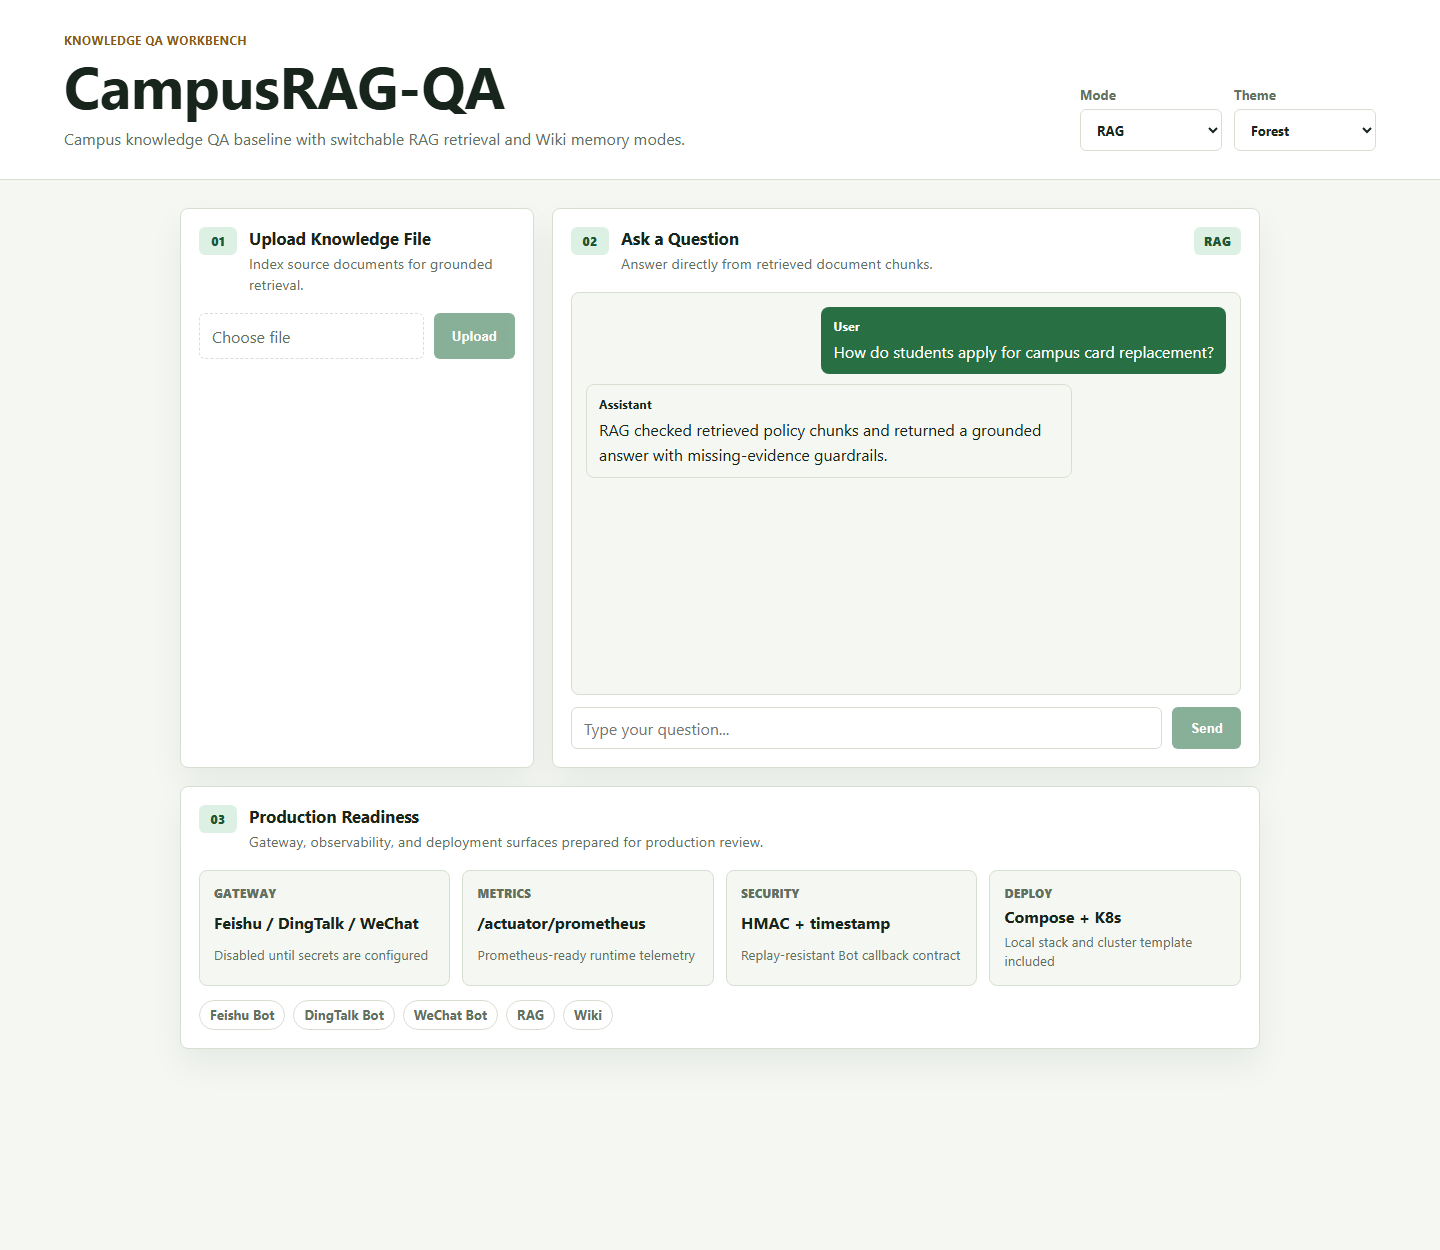
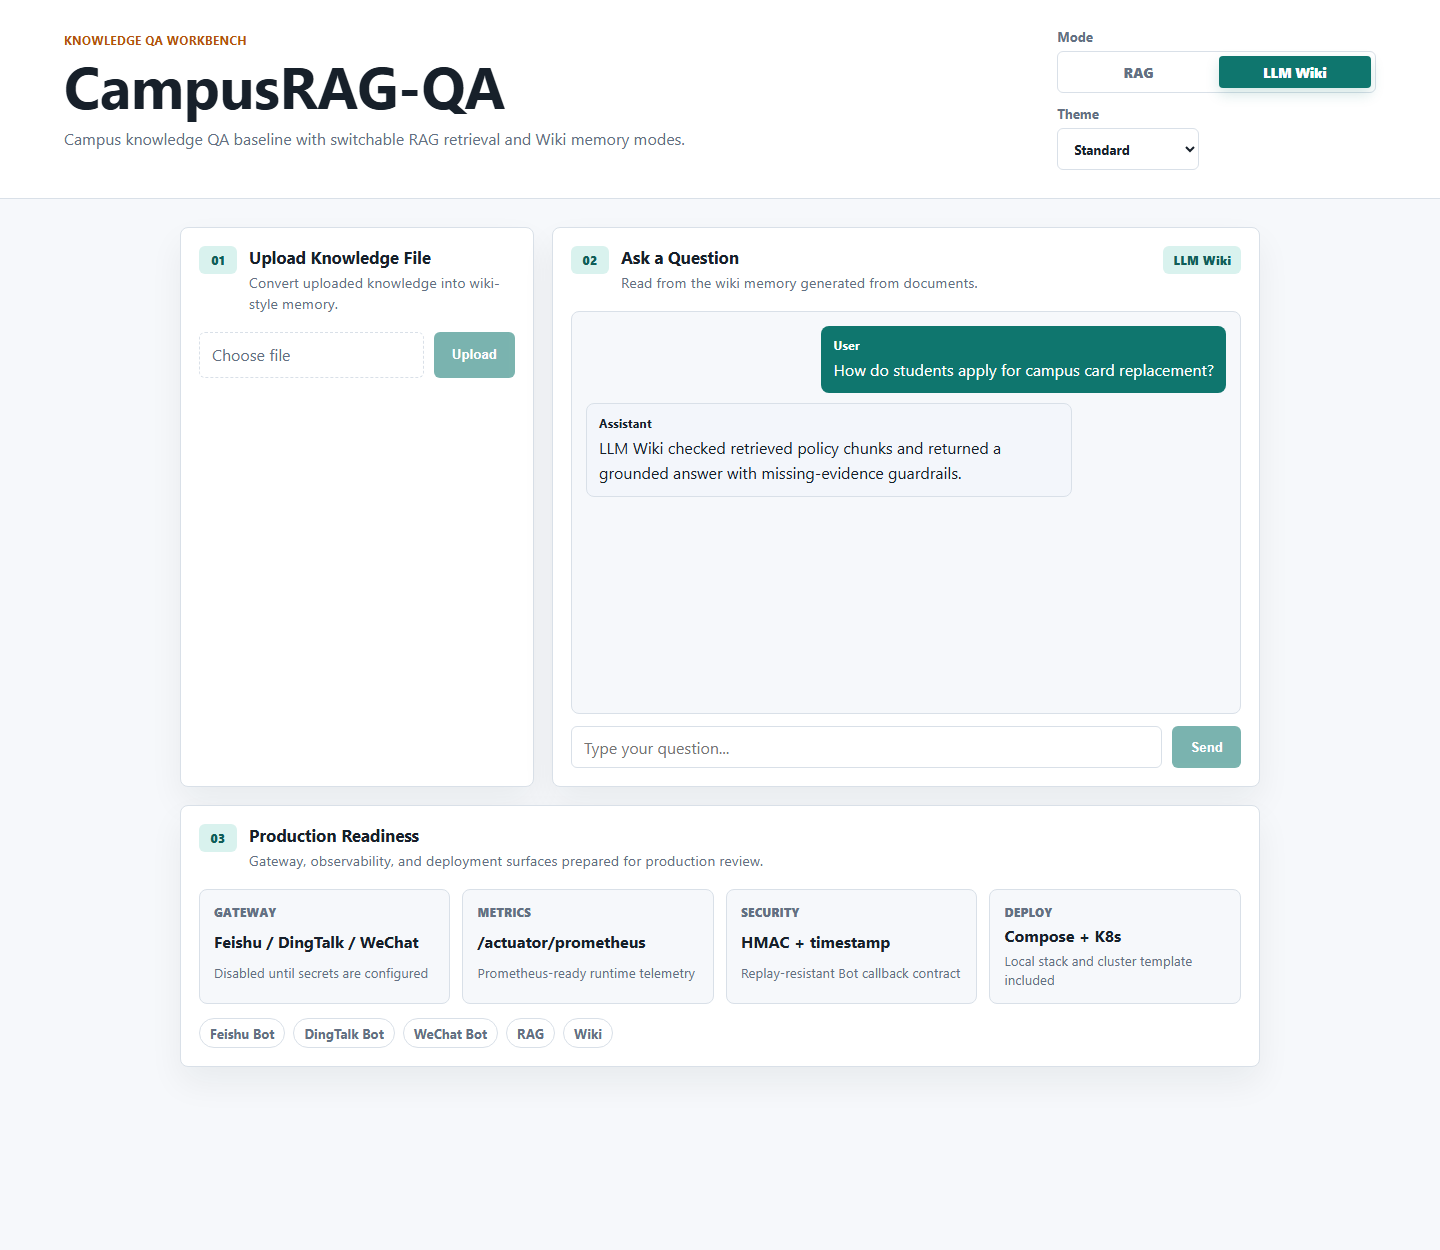
Add explicit RAG and Wiki mode switching

diff --git a/frontend/src/App.vue b/frontend/src/App.vue
@@ -8,14 +8,21 @@
       </div>
 
       <div class="header-controls">
-        <label class="control">
+        <div class="control mode-control" role="group" aria-label="Mode">
           <span>Mode</span>
-          <select v-model="selectedMode">
-            <option v-for="mode in modes" :key="mode.value" :value="mode.value">
+          <div class="mode-toggle">
+            <button
+              v-for="mode in modes"
+              :key="mode.value"
+              type="button"
+              :class="['mode-button', { active: selectedMode === mode.value }]"
+              :aria-pressed="selectedMode === mode.value"
+              @click="selectMode(mode.value)"
+            >
               {{ mode.label }}
-            </option>
-          </select>
-        </label>
+            </button>
+          </div>
+        </div>
 
         <label class="control">
           <span>Theme</span>
@@ -136,7 +143,7 @@ const modes = [
     chatHint: 'Answer directly from retrieved document chunks.',
   },
   {
-    value: 'llmwiki',
+    value: 'wiki',
     label: 'LLM Wiki',
     uploadEndpoint: '/api/wiki/upload',
     chatEndpoint: '/api/wiki/chat',
@@ -207,6 +214,10 @@ const messageContainer = ref(null);
 let messageCounter = 0;
 
 const currentMode = computed(() => modes.find((mode) => mode.value === selectedMode.value) ?? modes[0]);
+
+function selectMode(mode) {
+  selectedMode.value = mode;
+}
 
 function applyTheme() {
   const theme = themes[selectedTheme.value] ?? themes.standard;
@@ -413,6 +424,46 @@ p {
   color: var(--muted);
   font-size: 0.82rem;
   font-weight: 700;
+}
+
+.mode-control {
+  width: min(340px, 100%);
+}
+
+.mode-toggle {
+  width: 100%;
+  min-height: 42px;
+  display: grid;
+  grid-template-columns: repeat(2, minmax(0, 1fr));
+  gap: 4px;
+  padding: 4px;
+  border: 1px solid var(--line);
+  border-radius: 6px;
+  background: var(--surface);
+}
+
+.mode-button {
+  min-height: 32px;
+  border: 0;
+  border-radius: 4px;
+  background: transparent;
+  color: var(--muted);
+  font: inherit;
+  font-size: 0.86rem;
+  font-weight: 800;
+  cursor: pointer;
+  transition: background 0.16s ease, color 0.16s ease, box-shadow 0.16s ease;
+}
+
+.mode-button:hover {
+  color: var(--text);
+  background: var(--surface-muted);
+}
+
+.mode-button.active {
+  background: var(--primary);
+  color: #fff;
+  box-shadow: 0 6px 14px rgba(15, 118, 110, 0.18);
 }
 
 select,
@@ -718,6 +769,16 @@ select {
     width: 100%;
   }
 
+  .mode-control {
+    width: calc(100vw - 48px);
+    max-width: 100%;
+    min-width: 0;
+  }
+
+  .mode-toggle {
+    max-width: 100%;
+  }
+
   .brand-block p {
     overflow-wrap: anywhere;
   }
@@ -729,6 +790,7 @@ select {
   }
 
   select,
+  .mode-toggle,
   input,
   .file-input,
   .primary-btn {

diff --git a/README.md b/README.md
@@ -53,7 +53,7 @@ CampusRAG-QA is the clean baseline in the Campus QA family. It keeps the product
 | RAG chat | `/api/chat` answers using retrieved chunks only. |
 | Wiki mode | `/api/wiki/chat` formats retrieved chunks as wiki-style context. |
 | Bot gateway | `/api/bot/{channel}/callback` routes normalized Feishu, DingTalk, and WeChat messages. |
-| Frontend | Vue 3 workbench with mode switch, upload flow, and streaming-ready chat panel. |
+| Frontend | Vue 3 workbench with segmented RAG / LLM Wiki buttons, upload flow, and streaming-ready chat panel. |
 
 ## Visual Walkthrough
 
@@ -99,6 +99,22 @@ Open:
 - MinIO console: `http://localhost:9001`
 
 Set `OPENAI_API_KEY` in `.env` before expecting model-backed answers.
+
+## Mode Switching
+
+The browser workbench now uses explicit mode buttons instead of a hidden dropdown. RAG and LLM Wiki share the same indexed knowledge base, but they answer through different presentation paths.
+
+```bash
+curl -N -X POST http://localhost:8080/api/chat \
+  -H "Content-Type: application/json" \
+  -d '{"conversationId":"local-rag","userInput":"How do I replace a campus card?"}'
+```
+
+```bash
+curl -N -X POST http://localhost:8080/api/wiki/chat \
+  -H "Content-Type: application/json" \
+  -d '{"conversationId":"local-wiki","userInput":"How do I replace a campus card?"}'
+```
 
 ## Local Development
 
